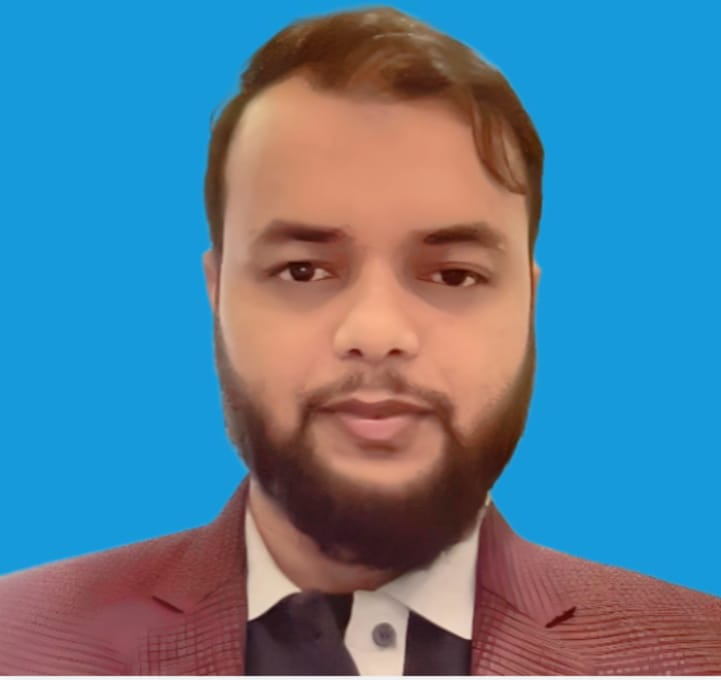
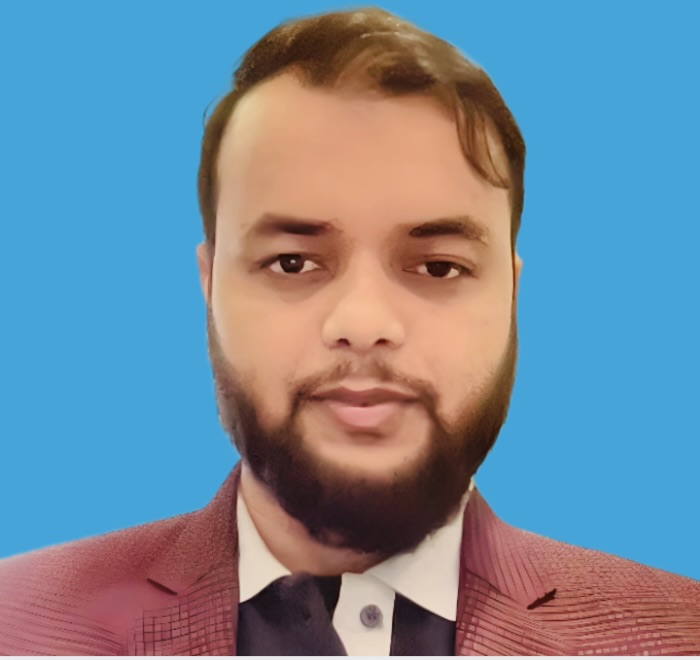
updated cv

diff --git a/index.html b/index.html
@@ -82,7 +82,7 @@
     <div class="container contact-pop">
       <div class="row">
         <div class="col-md-6  pr-0">
-          <div class="card"> <img class="card-img w-100" style="height:500px;" src="assets/img/yousuf5.png" alt="">
+          <div class="card"> <img class="card-img w-100"  src="assets/img/yousuf4.jpeg" alt="">
             <div class="card-img-overlay"> </div>
           </div>
         </div>
@@ -524,12 +524,12 @@
           <h2>Facebook</h2>
           <div class="owl-carousel owl-carousel4 owl-theme">
             <div>
-              <div class="card"> <img class="card-img" src="assets/img/yousuf.png" alt="">
+              <div class="card"> <img class="card-img" style="height: 200px;" src="assets/img/yousuf.png" alt="">
                 <div class="card-img-overlay"> </div>
               </div>
             </div>
             <div>
-              <div class="card"> <img class="card-img" src="assets/img/yousuf1.jpg"  alt="">
+              <div class="card"> <img class="card-img" style="height: 200px;" src="assets/img/yousuf3.jpeg"  alt="">
                 <div class="card-img-overlay"> </div>
               </div>
             </div>
